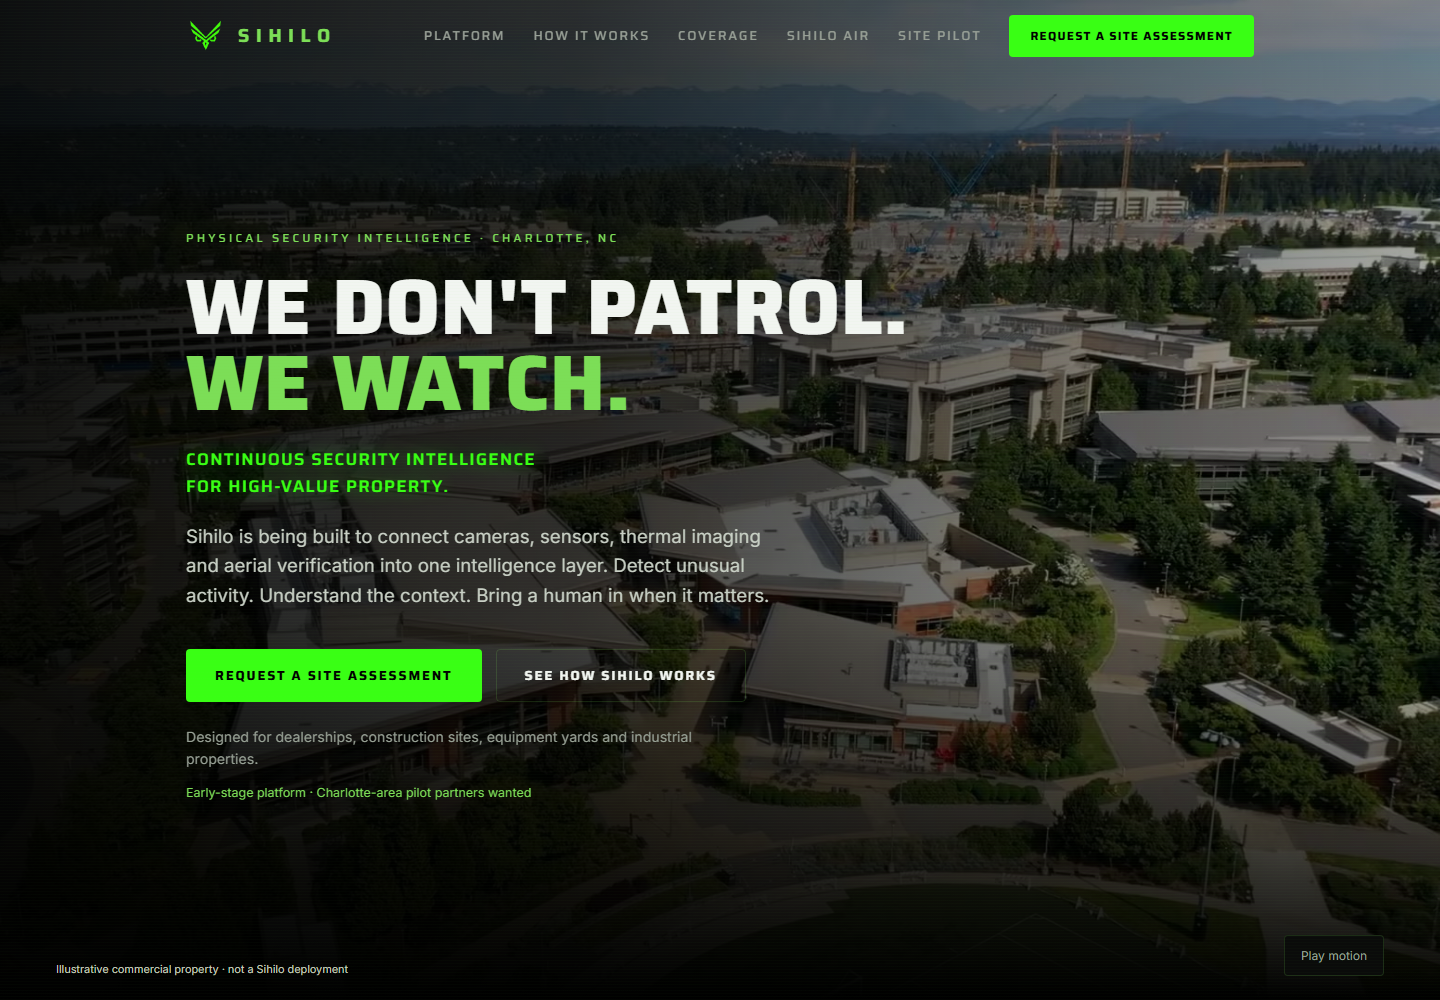
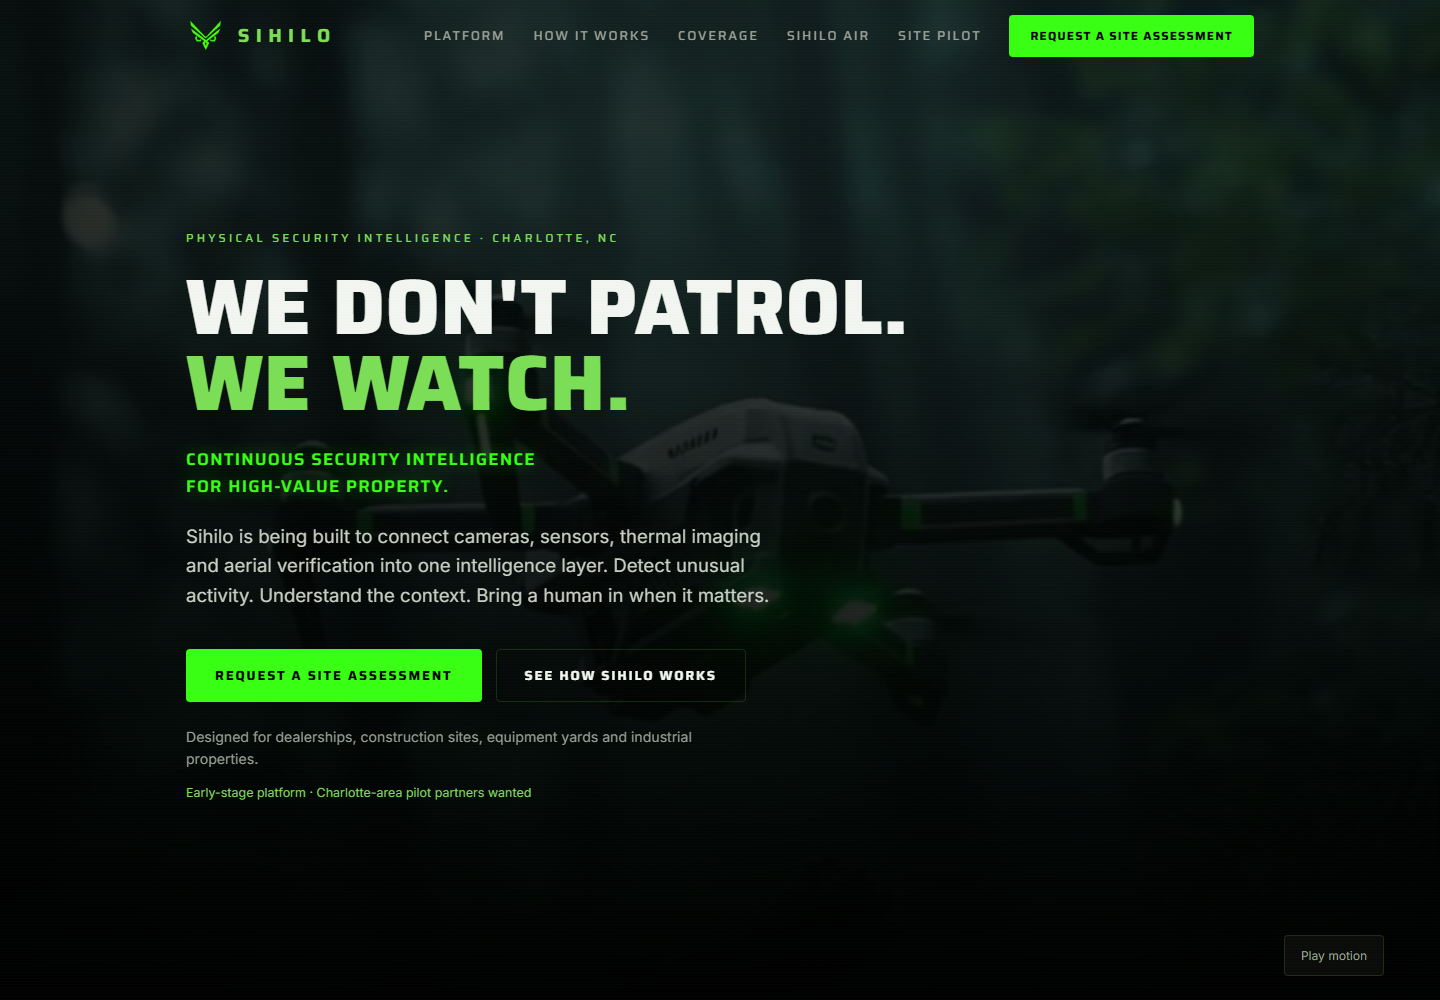
Restore original drone-to-owl hero video

diff --git a/index.html b/index.html
@@ -73,7 +73,17 @@
     <!-- Homepage section -->
     <section class="hero" id="hero">
       <div class="hero__media">
-        <picture class="hero__photo"><source type="image/avif" srcset="/images/skydio/hero/commercial-campus-aerial-480.avif 480w, /images/skydio/hero/commercial-campus-aerial-768.avif 768w, /images/skydio/hero/commercial-campus-aerial-1280.avif 1280w, /images/skydio/hero/commercial-campus-aerial-1920.avif 1920w" sizes="100vw" /><source type="image/webp" srcset="/images/skydio/hero/commercial-campus-aerial-480.webp 480w, /images/skydio/hero/commercial-campus-aerial-768.webp 768w, /images/skydio/hero/commercial-campus-aerial-1280.webp 1280w, /images/skydio/hero/commercial-campus-aerial-1920.webp 1920w" sizes="100vw" /><img src="/images/skydio/hero/commercial-campus-aerial-1920.webp" alt="" width="1920" height="1078" sizes="100vw" loading="eager" fetchpriority="high" decoding="async" /></picture>
+        <!-- Decorative muted animation; motion controls and reduced-motion fallback are handled in main.js. -->
+        <!-- html-validate-disable-next no-autoplay -->
+        <video
+          class="hero__video"
+          id="heroVideo"
+          autoplay muted loop playsinline
+          preload="metadata"
+          poster="assets/hero-poster.jpg"
+          aria-hidden="true">
+          <source src="assets/hero.mp4" type="video/mp4" />
+        </video>
         <div class="hero__overlay" aria-hidden="true"></div>
       </div>
 
@@ -89,7 +99,6 @@
         <p class="hero__support">Designed for dealerships, construction sites, equipment yards and industrial properties.</p>
         <p class="hero__availability">Early-stage platform &middot; Charlotte-area pilot partners wanted</p>
       </div>
-      <p class="hero__image-note">Illustrative commercial property &middot; not a Sihilo deployment</p>
       <button class="motion-toggle" id="motionToggle" type="button" aria-pressed="false">Pause motion</button>
     </section>
 

diff --git a/css/photography.css b/css/photography.css
@@ -1,14 +1,7 @@
 /* Photographic layer: retain the Sihilo palette, type and owl identity. */
 picture { display: block; }
 picture img { display: block; width: 100%; height: 100%; object-fit: cover; }
-.hero__photo { width: 100%; height: 100%; }
-.hero__photo img { object-position: 65% center; }
-.hero__overlay {
-  background: linear-gradient(90deg, rgba(0,0,0,.92) 0%, rgba(0,0,0,.76) 40%, rgba(0,0,0,.25) 100%),
-    linear-gradient(0deg, #000 0%, transparent 38%, rgba(0,0,0,.2) 100%);
-}
 .hero__content { margin-left: max(var(--pad), calc((100vw - var(--maxw)) / 2 + var(--pad))); padding-inline: 0; }
-.hero__image-note { position: absolute; bottom: 22px; left: var(--pad); right: 170px; z-index: 1; margin: 0; font-size: .68rem; color: #c0c8bc; }
 .photo-panel { margin: 0; overflow: hidden; border: 1px solid var(--hairline); border-radius: var(--radius); background: var(--panel); }
 .photo-panel picture { aspect-ratio: 16 / 9; overflow: hidden; }
 .photo-panel img { filter: saturate(.76); }
@@ -41,9 +34,6 @@ picture img { display: block; width: 100%; height: 100%; object-fit: cover; }
 }
 @media (max-width: 700px) {
   .hero__content { margin-left: 0; padding-inline: var(--pad); }
-  .hero__photo img { object-position: 62% center; }
-  .hero__overlay { background: linear-gradient(90deg, rgba(0,0,0,.88), rgba(0,0,0,.62)), linear-gradient(0deg,#000,transparent 70%); }
-  .hero__image-note { bottom: 18px; right: 150px; font-size: .6rem; }
   .sensor-story, .intelligence-photo, .closing__grid { grid-template-columns: 1fr; }
   .sensor-story picture { height: auto; aspect-ratio: 16 / 9; }
   .sensor-story .photo-panel:last-child img { object-position: center 36%; }

diff --git a/scripts/prepare_skydio.py b/scripts/prepare_skydio.py
@@ -90,7 +90,7 @@ for item in assets:
         (ROOT/item['filename']).unlink()
     else: unique[item['sha256']]=item
 assets=list(unique.values())
-integrated = {'005','003','009','014','018','045','050','051','052','076'}
+integrated = {'003','009','014','018','045','050','051','052','076'}
 for item in assets:
     im = Image.open(ROOT/item['filename']).convert('RGB')
     selected = item['id'] in integrated

diff --git a/README.md b/README.md
@@ -34,7 +34,7 @@ Runs ESLint, HTML validation, TypeScript checking of the existing JavaScript thr
 - `css/styles.css`: existing brand tokens, layout and motion styles.
 - `css/photography.css`: photo crops, image panels and responsive placement.
 - `js/main.js`: navigation, motion controls and assessment/pilot email form.
-- `assets/`: existing Sihilo owl marks, art, favicons and social image. Old hero video/poster retained locally but unused by the homepage/build.
+- `assets/`: existing Sihilo owl marks, art, favicons and social image. The original drone-to-owl hero video and poster are used by the homepage/build.
 - `public/images/skydio/`: full-resolution originals and WebP/AVIF derivatives, organized by subject.
 - `public/images/skydio/image-manifest.json`: source, dimensions, hashes, permission status and placement.
 - `docs/skydio/contact-sheet.html`: clickable candidate library; open directly in a browser.
@@ -106,7 +106,7 @@ All tokens are CSS variables at the top of [`css/styles.css`](css/styles.css).
   keyboard-navigable nav + form, visible focus rings.
 - Respects `prefers-reduced-motion`: disables video autoplay, scroll reveals, and
   dashboard animations; shows representative static states instead.
-- The photographic hero loads eagerly with high priority. Below-the-fold images use `loading="lazy"`, explicit dimensions, AVIF/WebP sources and responsive sizes.
+- The original hero video autoplays muted, with a poster and reduced-motion fallback. Below-the-fold images use `loading="lazy"`, explicit dimensions, AVIF/WebP sources and responsive sizes.
 
 
 ## Homepage positioning and feature status

diff --git a/docs/skydio/REPORT.md b/docs/skydio/REPORT.md
@@ -81,3 +81,9 @@ The extraction scripts use Python with `requests`, `beautifulsoup4`, and Pillow 
 ## Publication follow-up
 
 Removed manufacturer references from all visible homepage copy and image alt text at the user?s request. Internal source URLs, filenames and the permission manifest retain provenance. Browser tests now explicitly verify that visible text and image alt text contain no manufacturer reference.
+
+## Hero video restoration
+
+At the user's request, the homepage now uses the original `assets/hero.mp4` drone-to-owl animation and `assets/hero-poster.jpg` fallback. The original hero overlay is restored; other homepage sections retain their photography. The commercial-campus hero photograph remains in the candidate library but is no longer integrated. Nine photographs are currently placed on the page.
+
+The build now packages MP4 files and the local server serves the correct video MIME type. Browser checks cover reduced-motion pause, normal autoplay, video decoding and pause/resume controls. Current production packaging contains 68 files totaling approximately 2.72 MiB. Prior photographic-hero screenshots and metrics above describe the initial integration.
